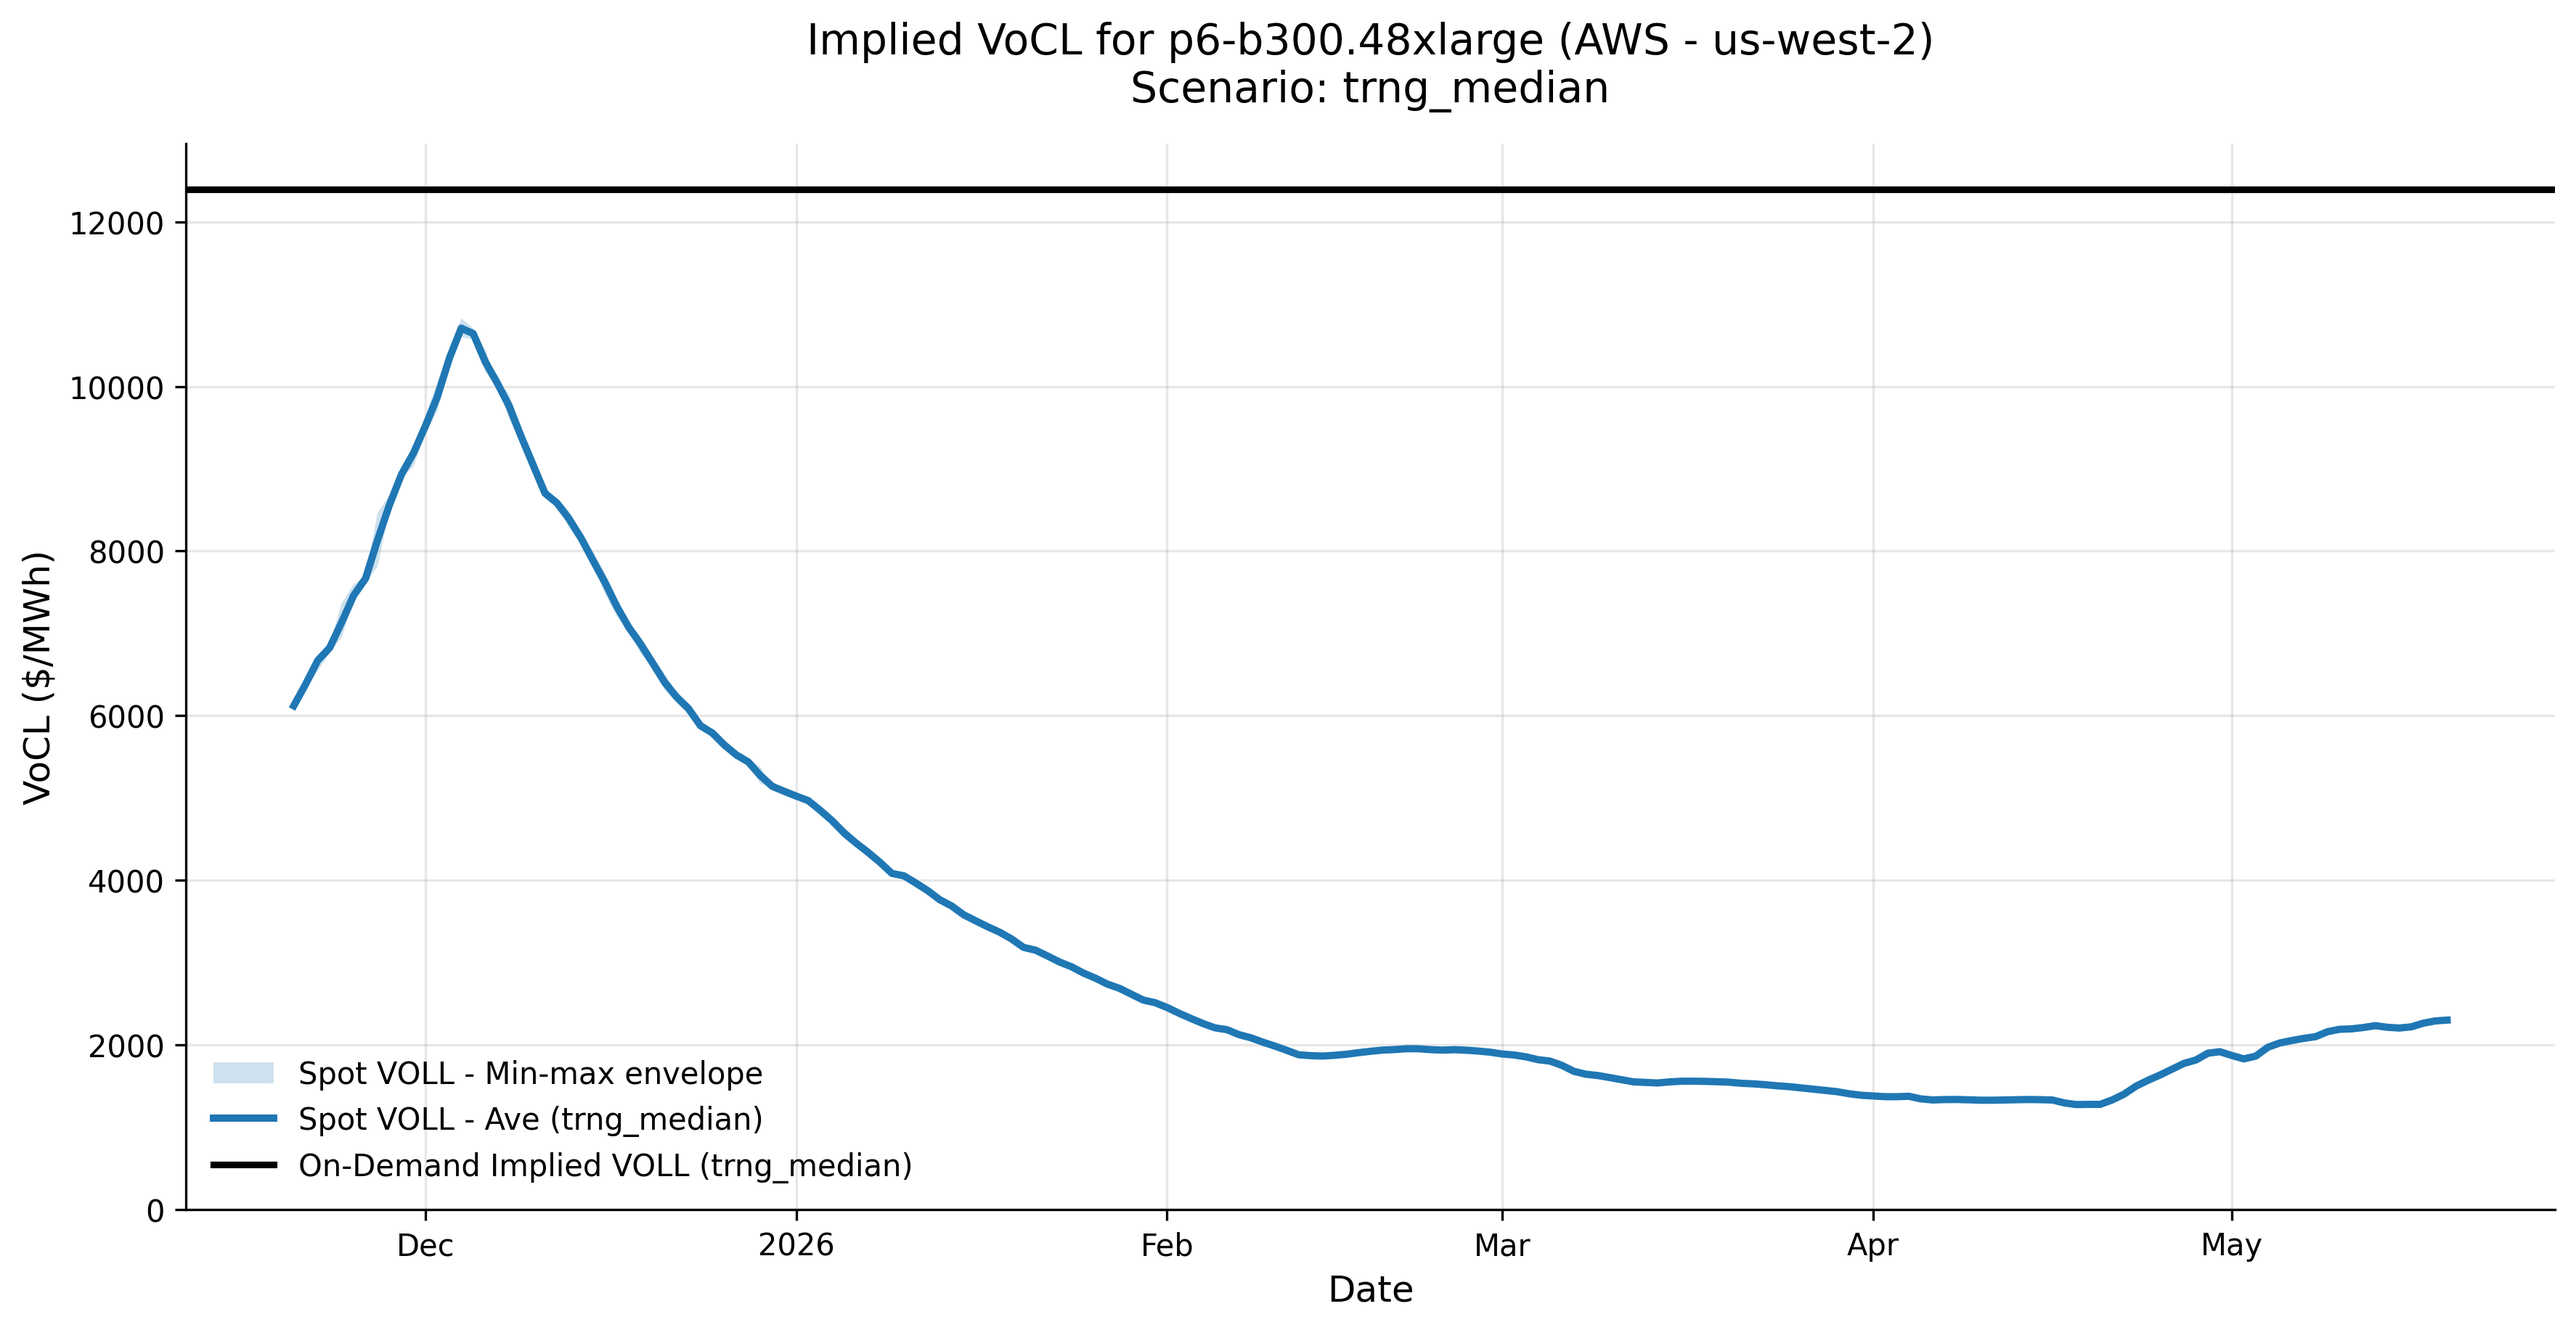
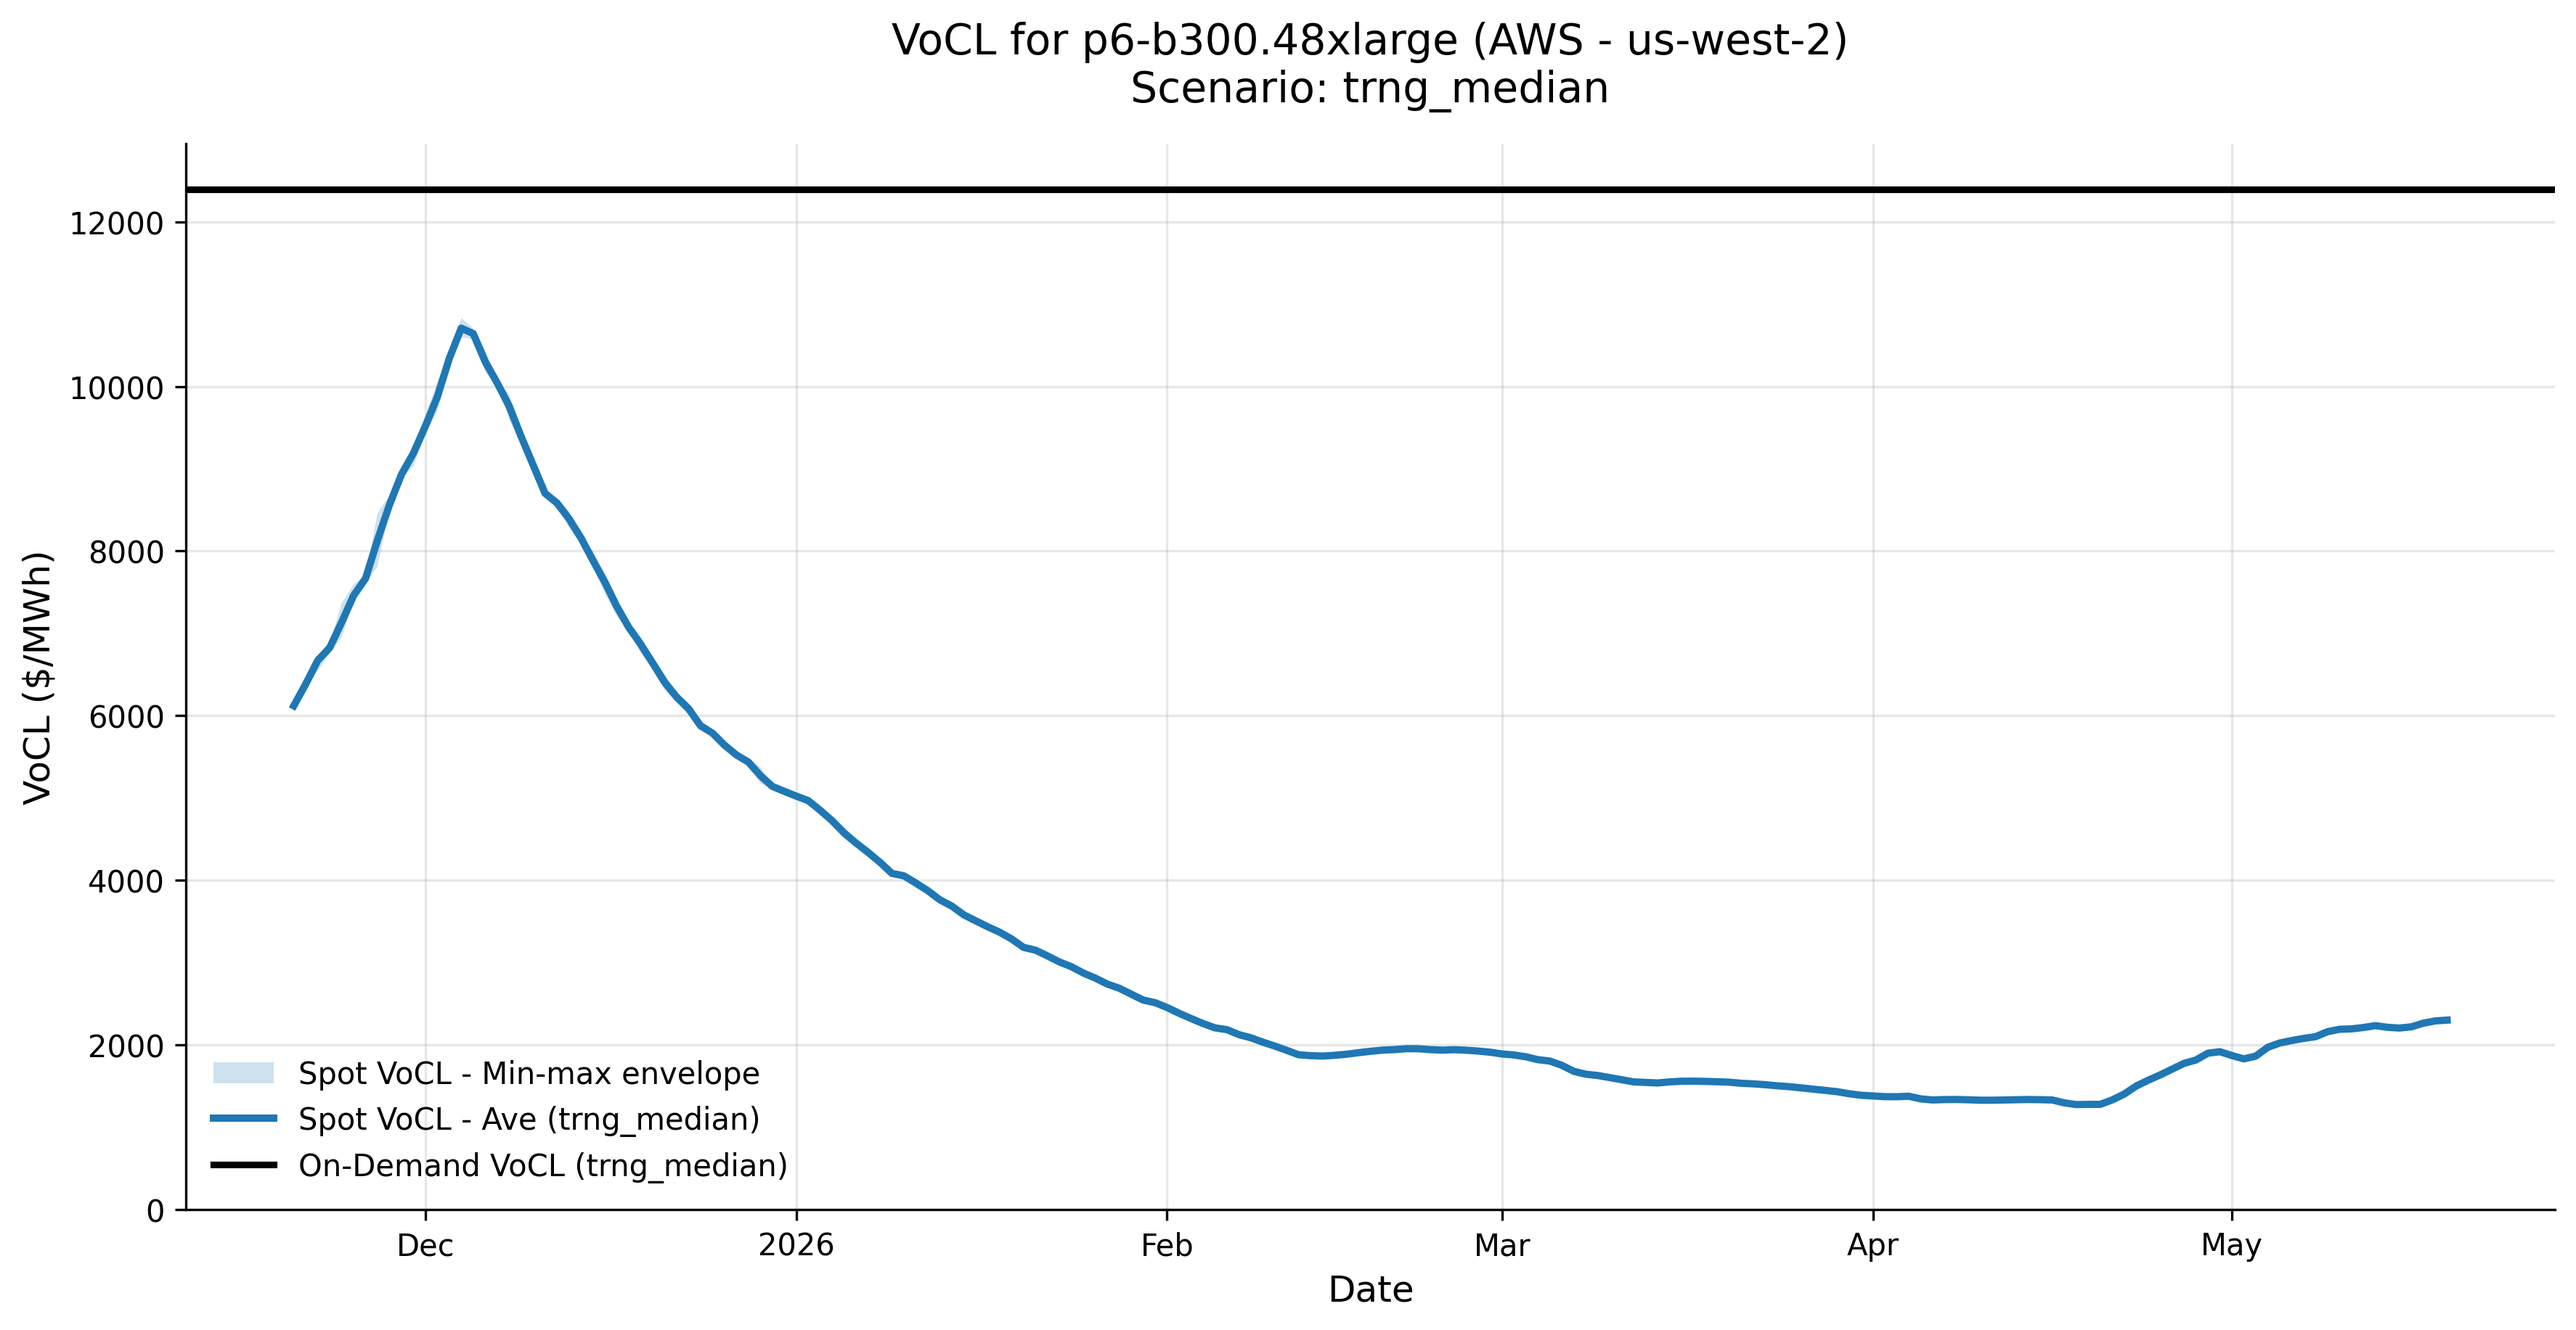
Updates

Changed region(s): [[0.31, 0.0, 0.7441, 0.0622], [0.155, 0.7774, 0.341, 0.9018]]

diff --git a/scripts/results_graphing.py b/scripts/results_graphing.py
@@ -800,7 +800,7 @@ def plot_ondemand_reference(
             linewidth=linewidth,
             linestyle="-",
             drawstyle="steps-post",
-            label=f"On-Demand Implied VOLL ({scenario})",
+            label=f"On-Demand VoCL ({scenario})",
         )
         return trajectory
 
@@ -813,7 +813,7 @@ def plot_ondemand_reference(
                 color="black",
                 linewidth=linewidth,
                 linestyle="-",
-                label=f"On-Demand Implied VOLL ({scenario})",
+                label=f"On-Demand VoCL ({scenario})",
             )
     return None
 
@@ -859,13 +859,13 @@ def plot_voll_timeseries(
         daily["voll_min"],
         daily["voll_max"],
         alpha=style.envelope_alpha,
-        label="Spot VOLL - Min-max envelope",
+        label="Spot VoCL - Min-max envelope",
     )
     ax.plot(
         daily["date"],
         daily["voll_mean"],
         linewidth=2.4,
-        label=f"Spot VOLL - Ave ({scenario})",
+        label=f"Spot VoCL - Ave ({scenario})",
     )
 
     ondemand_trajectory = plot_ondemand_reference(
@@ -881,7 +881,7 @@ def plot_voll_timeseries(
     #add_reference_lines(ax, style)
     location_text = f" - {location}" if location else ""
     ax.set_title(
-        f"Implied VoCL for {instance_name} ({provider.upper()}{location_text})\nScenario: {scenario}",
+        f"VoCL for {instance_name} ({provider.upper()}{location_text})\nScenario: {scenario}",
         fontsize=14,
         pad=14,
     )
@@ -998,7 +998,7 @@ def plot_voll_timeseries_locations(
             daily["voll_mean"],
             linewidth=2.2,
             color=color,
-            label=f"{location} spot VOLL - Ave",
+            label=f"{location} spot VoCL - Ave",
         )
 
     ondemand_trajectory = plot_ondemand_reference(
@@ -1012,7 +1012,7 @@ def plot_voll_timeseries_locations(
     combined_daily = add_historical_ondemand_to_daily(combined_daily, ondemand_trajectory)
 
     ax.set_title(
-        f"Implied VoCL for {instance_name} ({provider.upper()}) by location\nScenario: {scenario}",
+        f"VoCL for {instance_name} ({provider.upper()}) by location\nScenario: {scenario}",
         fontsize=14,
         pad=14,
     )
@@ -1153,7 +1153,7 @@ def plot_voll_spot_timeseries_clouds(
             linewidth=2.3,
             color=color,
             linestyle="--",
-            label=f"{series_name} spot VOLL - Ave",
+            label=f"{series_name} spot VoCL - Ave",
         )
 
     aws_ondemand_trajectory = historical_ondemand_voll_trajectory(
@@ -1174,7 +1174,7 @@ def plot_voll_spot_timeseries_clouds(
         linewidth=2.2,
         linestyle="-",
         drawstyle="steps-post",
-        label=f"EC2 on-demand implied VOLL ({scenario})",
+        label=f"EC2 on-demand VoCL ({scenario})",
     )
 
     azure_ondemand_voll = azure_ondemand_price / power_mw
@@ -1183,7 +1183,7 @@ def plot_voll_spot_timeseries_clouds(
         color="tab:orange",
         linewidth=2.2,
         linestyle="-",
-        label=f"Azure on-demand implied VOLL ({scenario})",
+        label=f"Azure on-demand VoCL ({scenario})",
     )
     combined_daily = pd.merge_asof(
         combined_daily.sort_values("date"),
@@ -1271,7 +1271,7 @@ def plot_voll_ondemand_regions(
 
     base_voll = pd.to_numeric(pd.Series([power_row[base_voll_col]]), errors="coerce").iloc[0]
     if pd.isna(base_voll) or base_voll <= 0:
-        raise ValueError(f"Invalid base on-demand VOLL for {instance_name} {scenario}: {base_voll}")
+        raise ValueError(f"Invalid base on-demand VoCL for {instance_name} {scenario}: {base_voll}")
 
     df_prices = load_csv(regional_price_file, label="regional on-demand price data")
     required_cols = ["Geography", "Region Name", "Region", "Instance Price"]
@@ -1332,7 +1332,7 @@ def plot_voll_ondemand_regions(
     ax.set_ylabel("On-demand VoCL ($/MWh)")
     ax.set_title(
         f"On-demand VoCL by region for {instance_name}\n"
-        f"Scenario: {scenario}, scaled from {base_region} on-demand VOLL"
+        f"Scenario: {scenario}, scaled from {base_region} on-demand VoCL"
     )
     tidy_axis(ax, style)
 
@@ -2774,7 +2774,7 @@ def plot_flexibility_discount_by_gpu(
         s=46,
         marker="D",
         zorder=4,
-        label="Discount (% of on-demand VOLL)",
+        label="Discount (% of on-demand VoCL)",
     )
 
     ax_bar.set_ylabel("Discount ($/MWh)")
@@ -2788,7 +2788,7 @@ def plot_flexibility_discount_by_gpu(
 
     ax_bar.legend(
         [bars, points],
-        ["Discount ($/MWh)", "Discount (% of on-demand VOLL)"],
+        ["Discount ($/MWh)", "Discount (% of on-demand VoCL)"],
         frameon=False,
         loc="best",
     )
